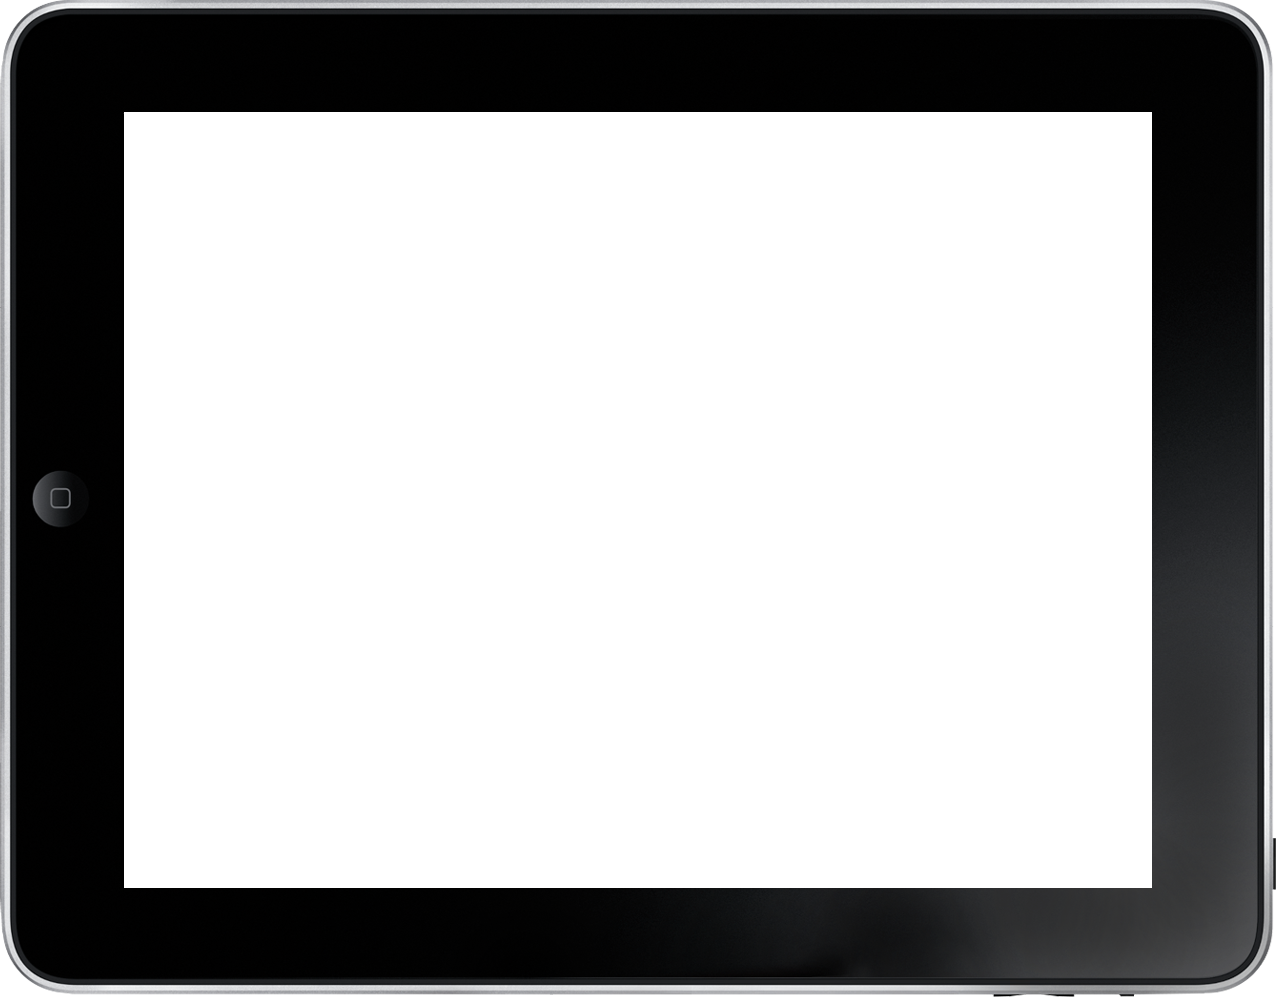
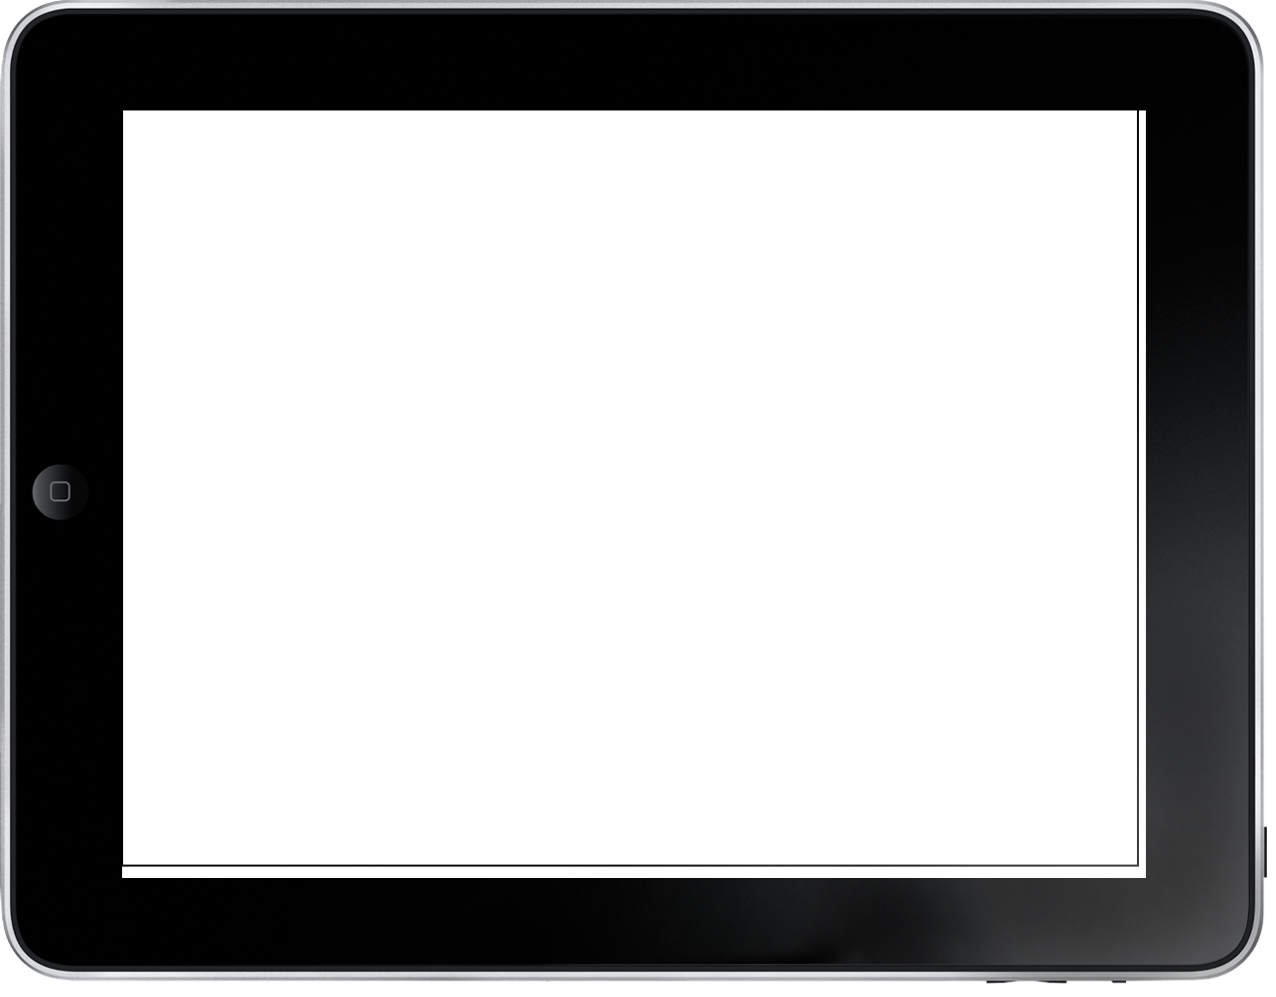
adding template and ipad img

Changed region(s): [[0.0, 0.0, 1.0, 1.0], [0.0917, 0.0933, 0.9169, 0.9017], [0.0306, 0.4664, 0.0611, 0.5286]]

diff --git a/static/css/demo.css b/static/css/demo.css
@@ -1,0 +1,211 @@
+.template-div {
+    border:solid 3px;
+    width:765px;
+    height:577px;
+    position:absolute;
+    top:79px;
+    left:90px;
+}
+
+.pull-right {
+    float:right;
+}
+
+.pull-left {
+    float:left;
+}
+
+/* Normal button on the main page */
+.mainPageButton {
+    -moz-box-shadow:inset 0px 1px 0px 0px #ffffff;
+    -webkit-box-shadow:inset 0px 1px 0px 0px #ffffff;
+    box-shadow:inset 0px 1px 0px 0px #ffffff;
+    background:-webkit-gradient( linear, left top, left bottom, color-stop(0.05, #ededed), color-stop(1, #dfdfdf) );
+    background:-moz-linear-gradient( center top, #ededed 5%, #dfdfdf 100% );
+    filter:progid:DXImageTransform.Microsoft.gradient(startColorstr='#ededed', endColorstr='#dfdfdf');
+    background-color:#FFFFFF;
+    opacity:0.5;
+    -moz-border-radius:16px;
+    -webkit-border-radius:16px;
+    border-radius:16px;
+    border:1px solid #dcdcdc;
+    display:table-cell;
+    color:#000000;
+    font-family:Trebuchet MS;
+    font-size:28px;
+    font-weight:bold;
+    width: 200px;
+    height: 100px;
+    text-decoration:none;
+    text-shadow:1px 1px 0px #777777;
+
+text-align:center;
+
+vertical-align:middle;
+}.mainPageButton:active {
+    position:relative;
+    top:1px;
+}
+
+/* Translucent box for the app name on the main page */
+.mainPageNameBox{
+    width: 200px;
+    height: 50px;
+
+font-size:35px;
+
+font-weight:bold;
+
+font-family:Trebuchet MS;
+
+color:#000000;
+
+text-decoration:none;
+
+text-shadow: 1px 1px 0px #777777;
+
+text-align:center;
+
+display:table-cell;
+
+vertical-align:middle;
+}
+
+/* Special button for the background image (b/c is thinner) */
+.mainPageButtonSmall {
+    -moz-box-shadow:inset 0px 1px 0px 0px #ffffff;
+    -webkit-box-shadow:inset 0px 1px 0px 0px #ffffff;
+    box-shadow:inset 0px 1px 0px 0px #ffffff;
+    background:-webkit-gradient( linear, left top, left bottom, color-stop(0.05, #ededed), color-stop(1, #dfdfdf) );
+    background:-moz-linear-gradient( center top, #ededed 5%, #dfdfdf 100% );
+    filter:progid:DXImageTransform.Microsoft.gradient(startColorstr='#ededed', endColorstr='#dfdfdf');
+    background-color:#FFFFFF;
+    opacity:0.5;
+    -moz-border-radius:16px;
+    -webkit-border-radius:16px;
+    border-radius:16px;
+    border:1px solid #dcdcdc;
+    display:table-cell;
+    color:#000000;
+    font-family:Trebuchet MS;
+    font-size:12px;
+    font-weight:bold;
+    width: 100px;
+    height: 100px;
+    text-decoration:none;
+    text-shadow:1px 1px 0px #777777;
+    text-align:center;
+
+vertical-align:middle;
+}
+.mainPageButtonSmall:active {
+    background:#7FFF00;
+}
+
+/* Timeline on the main page */
+.mainPageTimeline {
+    -moz-box-shadow:inset 0px 1px 0px 0px #ffffff;
+    -webkit-box-shadow:inset 0px 1px 0px 0px #ffffff;
+    box-shadow:inset 0px 1px 0px 0px #ffffff;
+    background:-webkit-gradient( linear, left top, left bottom, color-stop(0.05, #ededed), color-stop(1, #dfdfdf) );
+    background:-moz-linear-gradient( center top, #ededed 5%, #dfdfdf 100% );
+    filter:progid:DXImageTransform.Microsoft.gradient(startColorstr='#ededed', endColorstr='#dfdfdf');
+    background-color:#FFFFFF;
+    opacity:0.5;
+    -moz-border-radius:16px;
+    -webkit-border-radius:16px;
+    border-radius:16px;
+    border:1px solid #dcdcdc;
+    display:inline-block;
+    color:#000000;
+    font-family:Trebuchet MS;
+    font-size:28px;
+    font-weight:bold;
+    width: 200px;
+    height: 400px;
+    text-decoration:none;
+    text-shadow:1px 1px 0px #777777;
+}
+
+/* Navigation bar == left-hand thingy in the create and view event pages */
+.nav-bar-link {
+    display:inline-block;
+    float:center;
+    margin:0px -5px 0px 0px;
+    padding:10px;
+    width:250px;
+    background:#BBBBBB;
+    text-align:center;
+    font-size:28px;
+    font-family:Trebuchet MS;
+}
+
+.nav-bar-link.active {
+    background:#FFFFFF;
+}
+
+/* Title for pages e.g. Recipe Book and Create New Event */
+.pageTitle {
+    font-family:Trebuchet MS;
+    font-size:40px;
+}
+
+/* Body for the right side of event pages; super duper plain and boring */
+.plainBody{
+    margin:0px;
+    padding:0px;
+    background:#FFFFFF;
+    font-family:sans-serif;
+    font-size:28px;
+    color:#000000;
+}
+
+/* Normal button on the main page */
+.homeButton {
+    -moz-box-shadow:inset 0px 1px 0px 0px #ffffff;
+    -webkit-box-shadow:inset 0px 1px 0px 0px #ffffff;
+    box-shadow:inset 0px 1px 0px 0px #ffffff;
+    filter:progid:DXImageTransform.Microsoft.gradient(startColorstr='#ededed', endColorstr='#dfdfdf');
+    background-color:#000099;
+    border:1px solid #dcdcdc;
+    display:table-cell;
+    color:#FFFFFF;
+    font-family:Trebuchet MS;
+    font-size:16px;
+    font-weight:bold;
+    width: 70px;
+    height: 30px;
+    text-decoration:none;
+    text-shadow:1px 1px 0px #777777;
+
+text-align:center;
+
+vertical-align:middle;
+}.homeButton:active {
+    position:relative;
+    top:1px;
+}
+
+.genericButton {
+    -moz-box-shadow:inset 0px 1px 0px 0px #ffffff;
+    -webkit-box-shadow:inset 0px 1px 0px 0px #ffffff;
+    box-shadow:inset 0px 1px 0px 0px #ffffff;
+    filter:progid:DXImageTransform.Microsoft.gradient(startColorstr='#ededed', endColorstr='#dfdfdf');
+    background-color:#000099;
+    border:1px solid #dcdcdc;
+    display:table-cell;
+    color:#FFFFFF;
+    font-family:Trebuchet MS;
+    font-size:16px;
+    font-weight:bold;
+    padding:8px 8px;
+    text-decoration:none;
+    text-shadow:1px 1px 0px #777777;
+
+text-align:center;
+
+vertical-align:middle;
+}.genericButton:active {
+    position:relative;
+    top:1px;
+}

diff --git a/assignments/demo/mainpage.html b/assignments/demo/mainpage.html
@@ -1,0 +1,55 @@
+<!DOCTYPE html PUBLIC"-//W3C//DTD XHTML 1.0 Strict//EN"
+"http://www.w3.org/TR/xhtml1/DTD/xhtml1-strict.dtd">
+
+<html>
+	<head>
+		<link rel="stylesheet" type="text/css" href="../../static/css/demo.css">
+	</head>
+	
+	<body>
+		<div style="position:relative; margin:40px 0px 0px 40px">
+			<img class="ipad-img" src="../../static/images/prototype/ipadRev.png">
+			<div class="template-div">
+				<div>
+					<img src="../../revisedMockups/assets/strawberries.jpg" width="1024px">
+				</div>
+				
+				<div class = "topleft">
+					<h1 class = "mainPageNameBox">Cook With Friends</h1>
+					<h2 class = "mainPageButton">Create Event</h2>
+					
+				</div>
+				
+				
+				<div class = "bottomright" style=font-size:12px>
+					<h2 class = "recipebooks" style=width:250px > My Recipe Book</h2>
+					<h2 class = "recipebooks" style=width:250px> Friends' Recipe Books</h2>
+				</div>
+				
+				
+				<div class = "bottomleft mainPageButtonSmall">
+					<h3> Allie's </h3>
+					<h3> Chocolate Swirl Strawberries</h3>
+				</div>
+				
+				<div class = "mainPageTimeline topright">
+					<h3 class = "centerWithinTheDiv">Upcoming Events</h3>
+					<h4 class = "centerWithinTheDiv">Pancakes</h4>
+					<p class = "centerWithinTheDiv">Oct. 14th, Su 9:00 AM. Toni</p>
+					<h4 class = "centerWithinTheDiv"> Steak</h4>
+					<p class = "centerWithinTheDiv">Oct. 23rd, Tu 9:00 PM. Ernest</p>
+					<h4 class = "centerWithinTheDiv">Cookies</h4>
+					<div class = "centerWithinTheDiv" >Nov. 2nd, Fr 11:00 AM. Haruki</div>
+					<h4 class = "centerWithinTheDiv">Cinnamon Rolls</h4>
+					<div class = "centerWithinTheDiv">Nov. 2nd, Su 11:00 AM. Truman</div>
+				</div>
+			</div>
+		</div>
+	
+	</body>
+
+
+</html>
+
+
+

diff --git a/assignments/demo/template.html b/assignments/demo/template.html
@@ -1,0 +1,25 @@
+<!DOCTYPE html PUBLIC"-//W3C//DTD XHTML 1.0 Strict//EN"
+"http://www.w3.org/TR/xhtml1/DTD/xhtml1-strict.dtd">
+
+<html>
+	<head>
+		<link rel="stylesheet" type="text/css" href="../../static/css/demo.css">
+	</head>
+	
+	<body>
+		<div style="position:relative; margin:40px 0px 0px 40px">
+			<img class="ipad-img" src="../../static/images/prototype/ipadRev.png">
+			<div class="template-div">
+			</div>
+		</div>
+		<div>
+			
+		</div>
+	
+	</body>
+
+
+</html>
+
+
+
